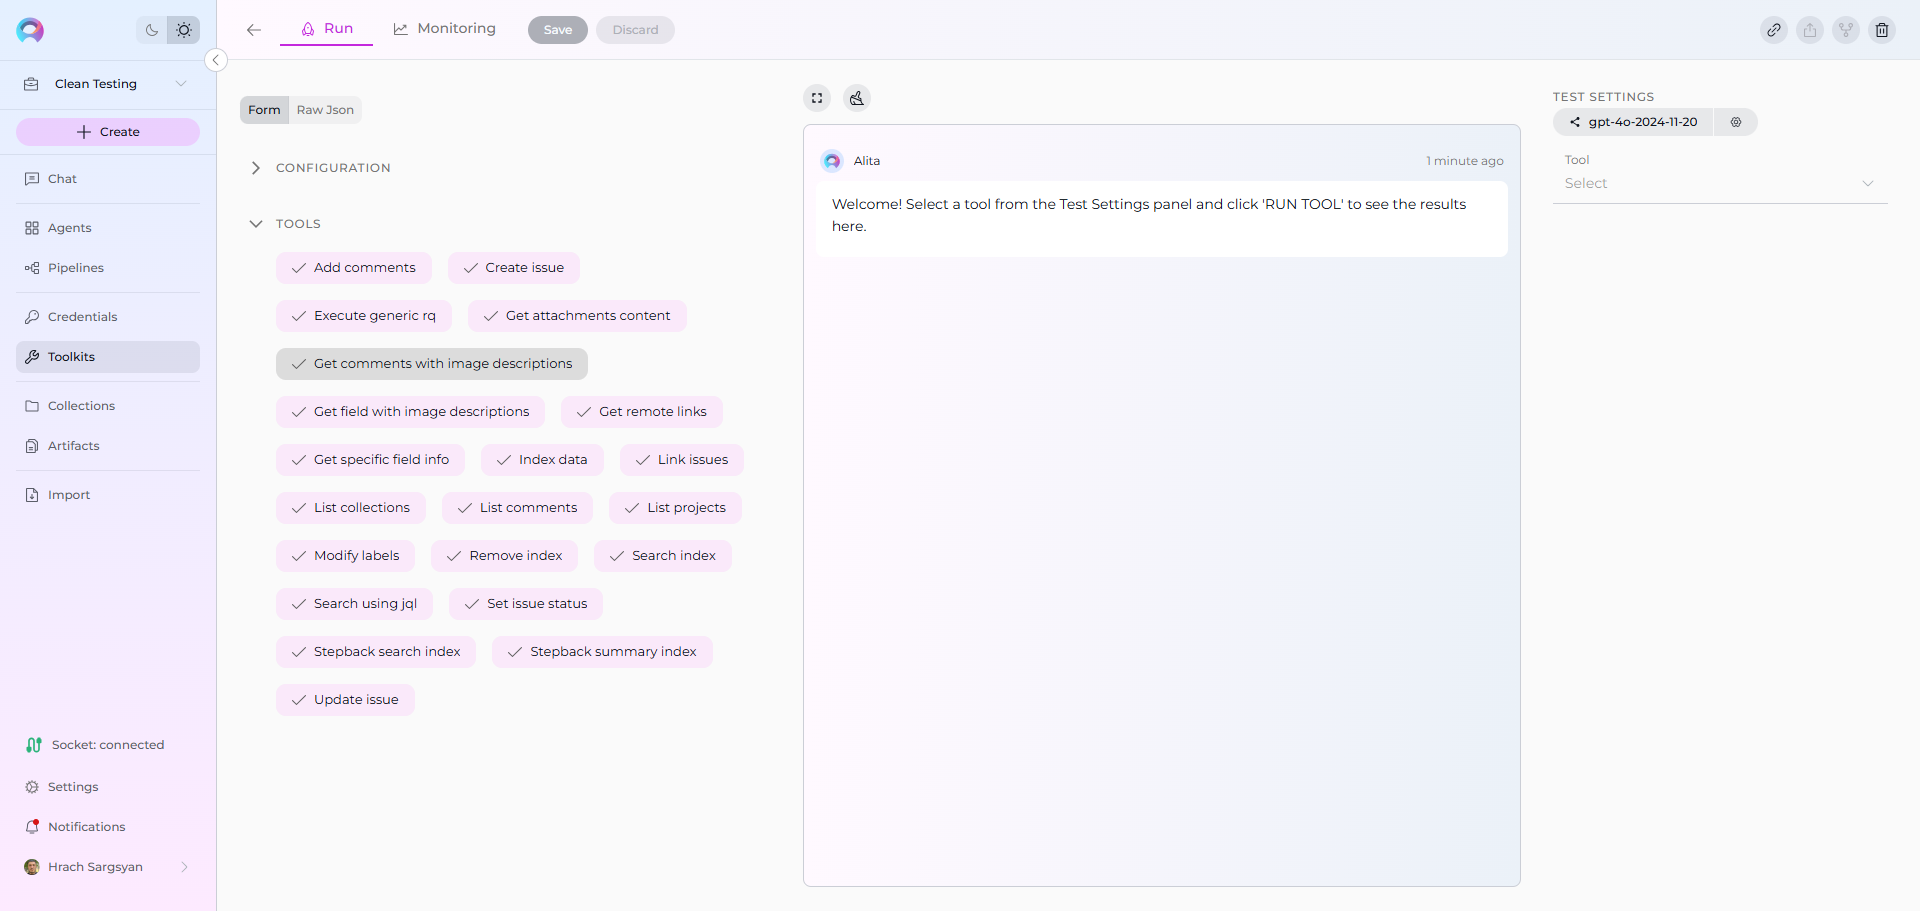
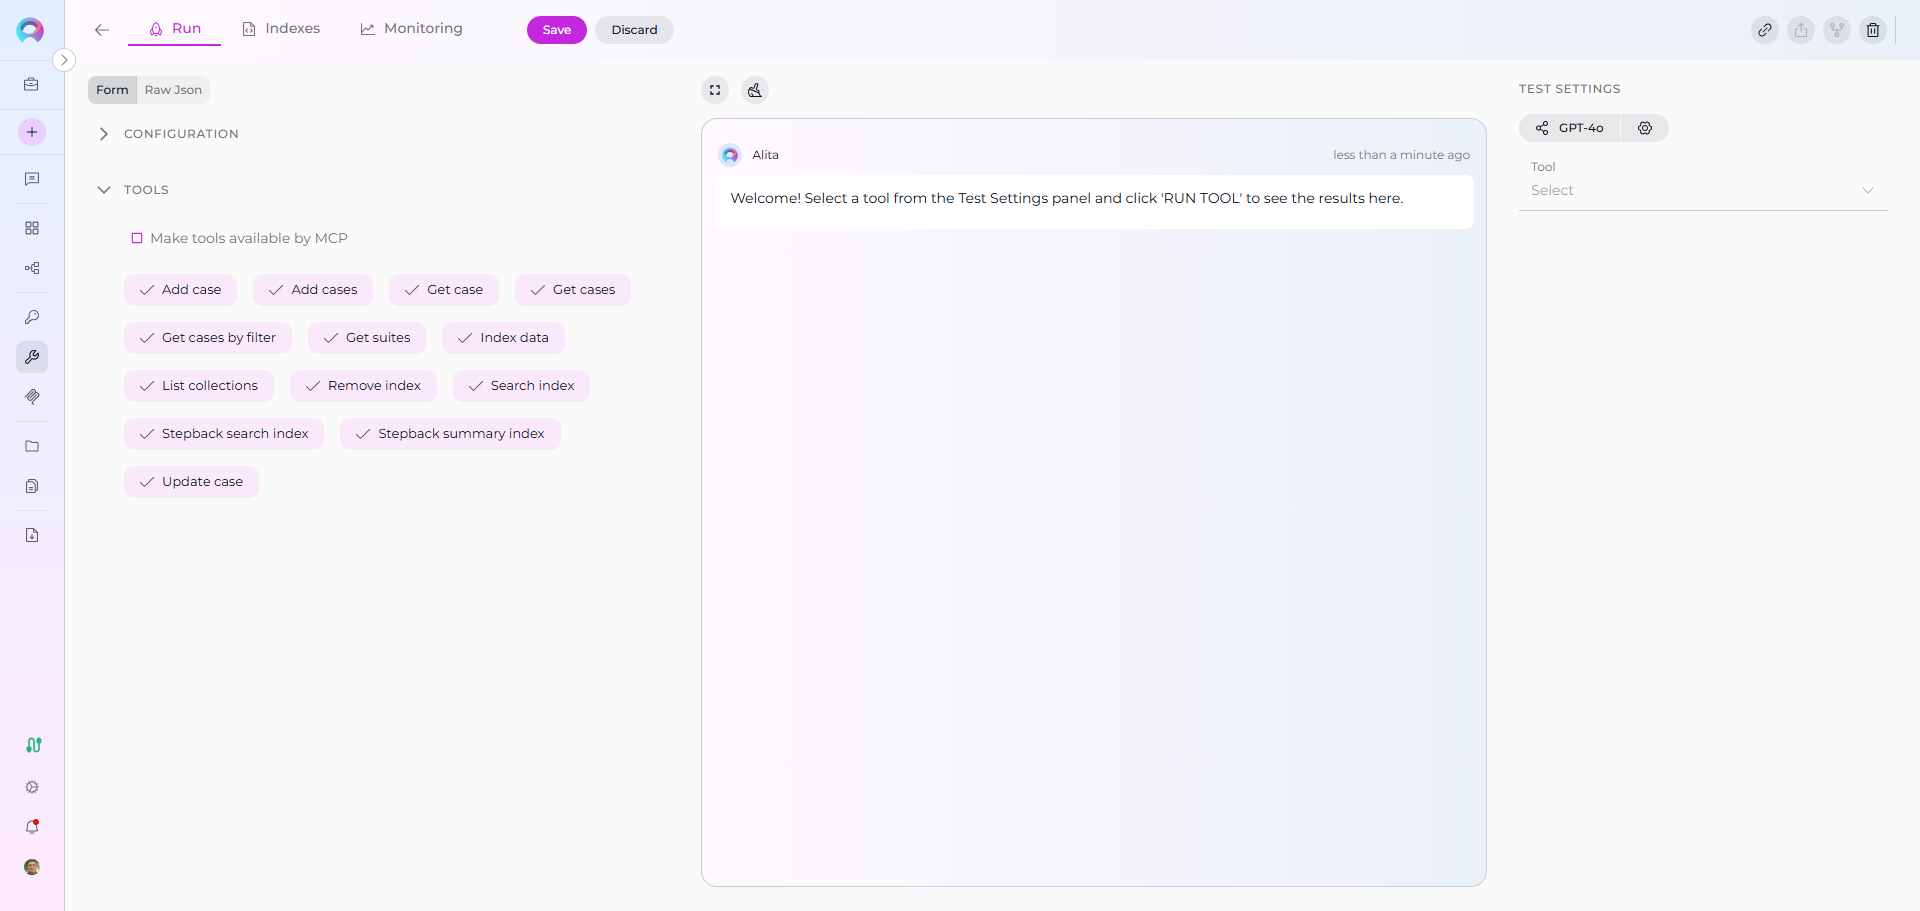
Update toolkits menu docs: Add Indexes tab and MCP availability checkbox

diff --git a/docs/menus/toolkits.md b/docs/menus/toolkits.md
@@ -141,6 +141,17 @@ When selecting tools for your toolkit:
 
     ![Toolkits-Create](../img/menus/toolkits/select-tools.png)
 
+#### Make Tools Available by MCP
+
+When configuring toolkit tools, you may see a checkbox labeled **"Make tools available by MCP"** in the Tools section. This option controls whether the selected tools can be accessed through the Model Context Protocol (MCP) interface.
+
+* **Purpose:** Enables toolkit tools to be exposed and accessible via MCP servers
+* **Location:** Appears in the Tools configuration section when selecting toolkit tools
+* **When to Enable:** 
+     - You plan to use this toolkit's tools through an MCP server
+     - You want to make these tools available to external MCP clients
+     - You're building MCP-based integrations that need access to these tools
+
 !!! tip "Tip"
     Regularly use the edit function to rotate credentials, update tool selections, or modify toolkit capabilities as your needs change.
 
@@ -180,6 +191,32 @@ The toolkit configuration page includes a **Test Settings** panel on the right s
 
 ![Test Interface](../img/menus/toolkits/test_interface.png)
 
+---
+
+## Managing Toolkit Indexes
+
+Toolkits that support document processing and content indexing provide an **Indexes** tab for managing indexed data. 
+
+### Accessing the Indexes Tab
+
+The Indexes tab enabled in the toolkit detail page alongside the Run tab when:
+
+* The toolkit schema includes indexing tools (such as `index_data`, `search_index`, `remove_index`)
+* PgVector configuration is set
+* Embedding Model is configured
+* **index_data** tool is selected in the toolkit's tool selection
+
+### Using the Indexes Tab
+
+The Indexes tab provides a dedicated interface for:
+
+* **Creating new indexes:** Set up document indexing for the external service
+* **Managing existing indexes:** View, configure, and monitor active indexes
+* **Index configuration:** Configure indexing parameters specific to each index
+* **Index history:** Track indexing operations and their status
+* **Removing indexes:** Delete indexes that are no longer needed
+
+![Indexex Tab](../img/menus/toolkits/indexes-tab.png)
 ---
 
 ## Assigning Toolkits to Agents
